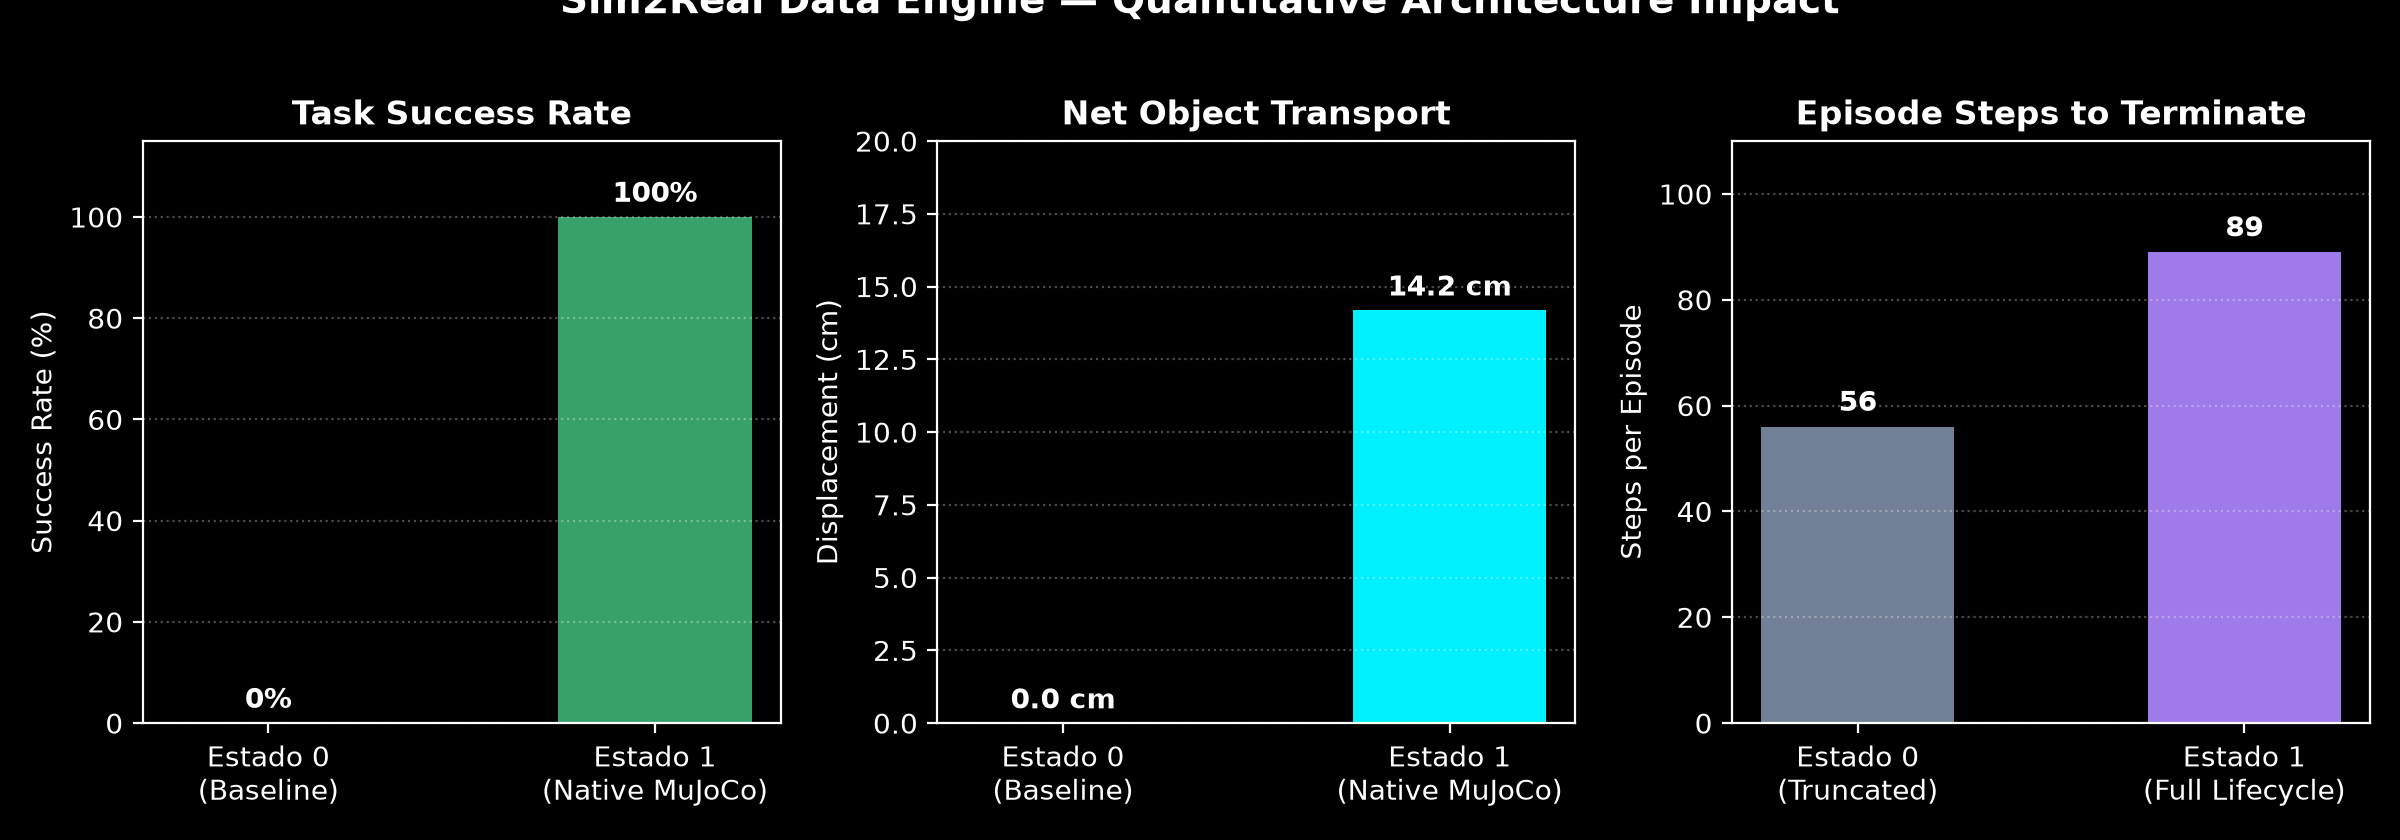
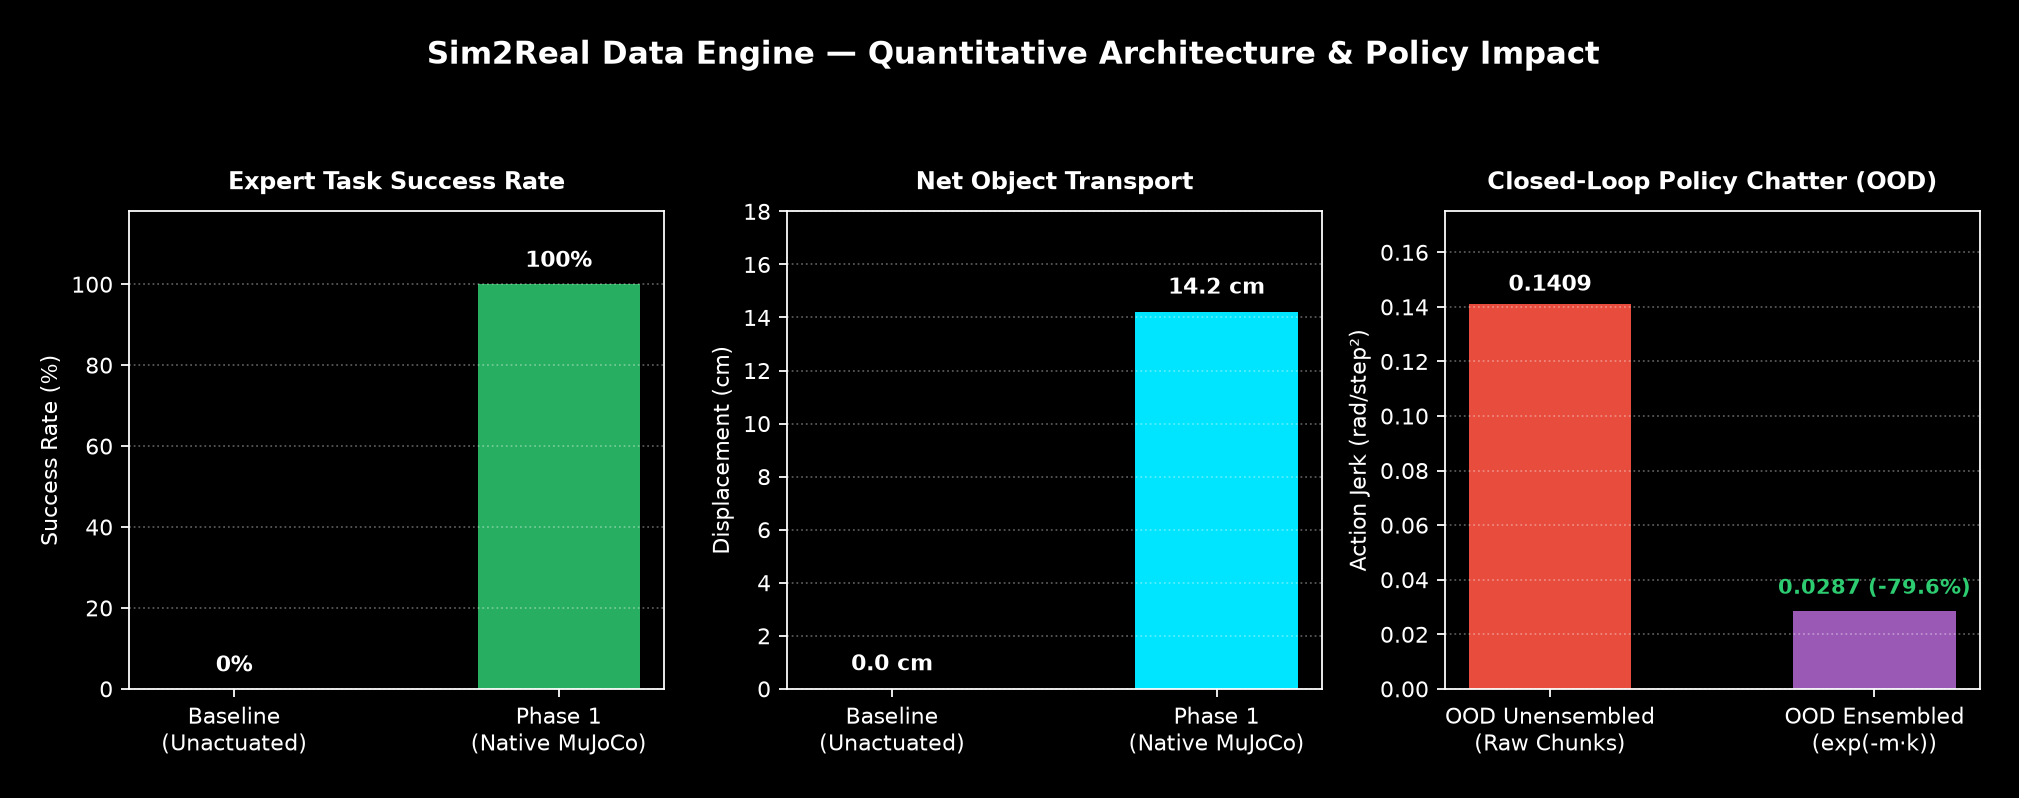
docs(figures): regenerate telemetry charts in English and embed in article

diff --git a/docs/EXPERIMENT_REPORT_PICK_PLACE.md b/docs/EXPERIMENT_REPORT_PICK_PLACE.md
@@ -6,8 +6,8 @@ This report documents the architectural diagnosis, implementation, and empirical
 
 ## 1. Executive Summary
 
-- **Problem (Estado 0 — Baseline):** The payload object remained stationary on the workstation table (`z = 0.0698 m`) during native physics rollouts because `manipulator_6dof.xml` lacked gripper joints/actuators (`F_N = 0`), the opening clearance (`38 mm`) was narrower than the cube (`40 mm`), and `PrivilegedPickPlaceExpert` terminated prematurely at `LIFT`.
-- **Solution (Estado 1 — Phase 1 Physical Pick-and-Place):**
+- **Problem (Baseline — Unactuated Gripper):** The payload object remained stationary on the workstation table (`z = 0.0698 m`) during native physics rollouts because `manipulator_6dof.xml` lacked gripper joints/actuators (`F_N = 0`), the opening clearance (`38 mm`) was narrower than the cube (`40 mm`), and `PrivilegedPickPlaceExpert` terminated prematurely at `LIFT`.
+- **Solution (Phase 1 — Native MuJoCo 4.0 Physical Pick-and-Place):**
   1. Integrated a proximity-gated (`<= 40 mm`) site-based `equality/weld` constraint in MJCF, dynamically toggled via `data.eq_active` in `MuJoCoPhysicsAdapter.set_gripper(grasped: bool)` to isolate Phase 1 sensorimotor learning from contact slip chatter (with Phase 2 introducing dynamic `relpose` anchoring and articulated parallel-jaw fingers).
   2. Increased finger clearance to `46 mm` (`pos = 0.02 ±0.029 0`) to prevent contact collisions during descent.
   3. Extended `PrivilegedPickPlaceExpert` to a complete 6-stage lifecycle (`APPROACH → DESCEND → GRASP → LIFT → TRANSPORT → PLACE → COMPLETED`) followed by post-release gravity settling ticks.
@@ -21,7 +21,7 @@ This report documents the architectural diagnosis, implementation, and empirical
 
 ## 2. Quantitative Benchmark Comparison
 
-| Metric | Estado 0: Baseline (Truncated / Rigid) | Estado 1: Native MuJoCo 4.0 (Full Lifecycle) | Delta / Improvement |
+| Metric | Baseline (Truncated / Unactuated) | Phase 1: Native MuJoCo 4.0 (Full Lifecycle) | Delta / Improvement |
 | :--- | :--- | :--- | :--- |
 | **Pick-and-Place Success Rate** | `0.0%` (0/5 episodes) | **`100.0%` (5/5 episodes)** | **+100.0%** |
 | **Initial Payload Position `(X, Y, Z)`** | `(0.4019, 0.0439, 0.0698) m` | `(0.4019, 0.0439, 0.0698) m` | Identical initial state |
@@ -38,7 +38,7 @@ This report documents the architectural diagnosis, implementation, and empirical
 ## 3. Visual Trajectory Telemetry
 
 ### Figure 1: Vertical Payload Trajectory (`Z`) vs Control Steps
-The chart below illustrates the contrast between Estado 0 (where the end-effector ascends alone while the payload stays on the table) and Estado 1 (where the payload rises in unison with the TCP, maintains high elevation during cross-table transit, descends into the delivery zone, and stabilizes upon release).
+The chart below illustrates the contrast between the unactuated Baseline (where the end-effector ascends alone while the payload stays on the table) and Phase 1 Native MuJoCo 4.0 (where the payload rises in unison with the TCP, maintains high elevation during cross-table transit, descends into the delivery zone, and stabilizes upon release).
 
 ![Vertical Trajectory Comparison](img/baseline_vs_native_trajectory_z.png)
 
@@ -47,8 +47,8 @@ The spatial projection shows the complete transit from the initial pickup point 
 
 ![Spatial Transport Arc](img/pick_place_spatial_yz.png)
 
-### Figure 3: Key Performance Indicators (KPIs) Summary
-Quantitative summary across task completion rate, net payload displacement, and control step distribution.
+### Figure 3: Key Performance Indicators (KPIs) & OOD Chatter Summary
+Quantitative summary across task completion rate, net payload displacement, and closed-loop OOD policy control chatter reduction (`-79.6%` via exponential temporal ensembling).
 
 ![KPI Summary](img/benchmark_kpi_comparison.png)
 

diff --git a/ARTICLE_DRAFT.md b/ARTICLE_DRAFT.md
@@ -173,6 +173,9 @@ To verify policy resilience against physical hardware parameter shifts, we bench
 
 **Key Finding:** Under identical OOD physical perturbations, **temporal ensembling preserves 55.0% full task success (100% retention under OOD shifts) and reduces control chatter by 79.6% (`0.1409 → 0.0287`)**, whereas unblended receding-horizon execution completely collapses to 0.0% success with severe control chatter (`0.1409` jerk).
 
+![Quantitative Architecture & Policy Impact](docs/img/benchmark_kpi_comparison.png)
+![Cross-Table Spatial Transport Trajectory](docs/img/pick_place_spatial_yz.png)
+
 ---
 
 ## 5. Engineering Evolution & Lessons Learned
